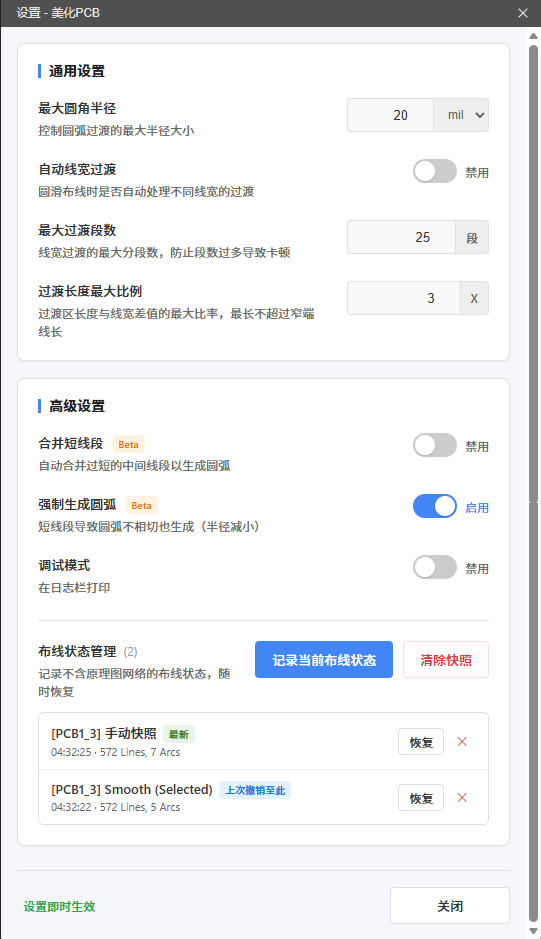
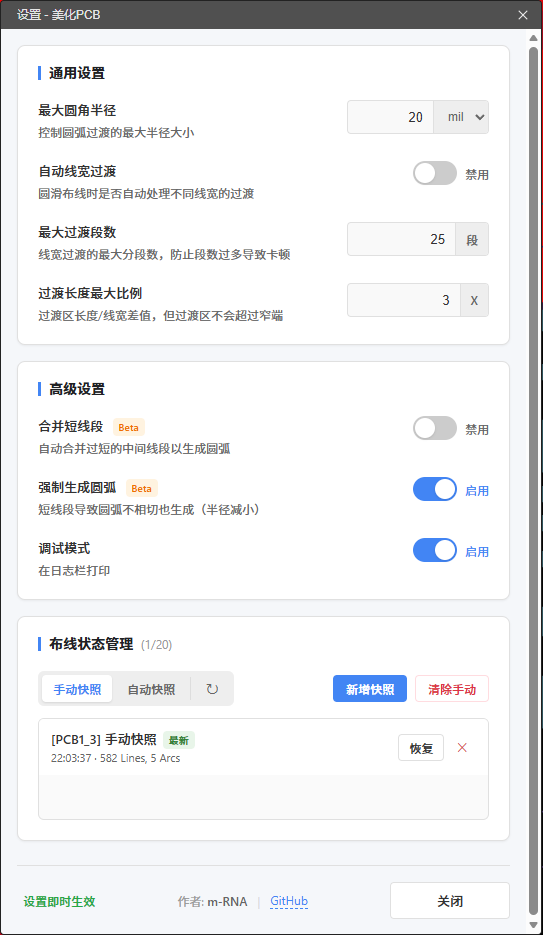
更新：添加版本1.0.4的变更日志，优化快照管理描述，更新扩展名称和版本号，替换设置界面图片

diff --git a/CHANGELOG.md b/CHANGELOG.md
@@ -1,5 +1,24 @@
 # Changelog
 
+## 1.0.4 (2026-02-04)
+
+### ✨ 优化
+
+- 设置界面：全新UI布局，独立快照管理卡片；增加自动/手动快照视图切换
+- 动画效果：优化刷新按钮交互，文档切换或数据刷新时播放丝滑的旋转动画
+
+### 🚀 核心升级 (快照管理 V2)
+
+- 智能分支：实现Git风格的时间线管理，撤销后产生新变更时自动截断无效的“未来”历史
+- 深度去重：引入基于图元ID排序的深度比对算法，彻底解决乱序导致的假性重复快照
+- 逻辑修正：修复撤销操作索引计算错误，消除跳过状态的Bug
+- 代码重构：清理遗留代码，全面转移在 V2 存储结构
+
+### 其他
+
+- 更新相关文档、设置界面图片
+- 重命名扩展名称：熔化/优化/美化PCB (融化)
+
 ## 1.0.2 (2026-02-02)
 
 - 重命名扩展名称：熔化PCB-美化PCB（融化）,添加“熔化”和“Melt”关键字

diff --git a/README.md b/README.md
@@ -22,7 +22,7 @@
 | ------ | ------ |
 | 圆滑布线 | 折线拐角 → 平滑圆弧，可调节最大半径 |
 | 线宽过渡 | 不同线宽间平滑渐变（更好的泪滴），基于贝塞尔曲线算法 |
-| 快照管理 | 自动/手动快照，随时一键恢复布线状态，防止误操作 |
+| 快照管理 | 自动/手动快照视图切换，随时安全恢复状态 |
 | 高级控制 | 支持强制小半径圆弧生成、合并短线段等高级策略 (Beta) |
 
 ## 📖 使用
@@ -32,7 +32,7 @@
 - **圆滑布线（选中/全部）** - 处理走线拐角(基于圆弧走线美化)
 - **过渡线宽（选中/全部）** - 生成线宽渐变(基于贝塞尔曲线美化)
 - **撤销** - 回退到上一步操作（支持多步撤销）
-- **设置** - 配置半径、过渡参数、快照等选项
+- **设置** - 配置半径、过渡参数、管理快照历史等选项
 
 ![效果预览](./images/topMenu.png)
 
